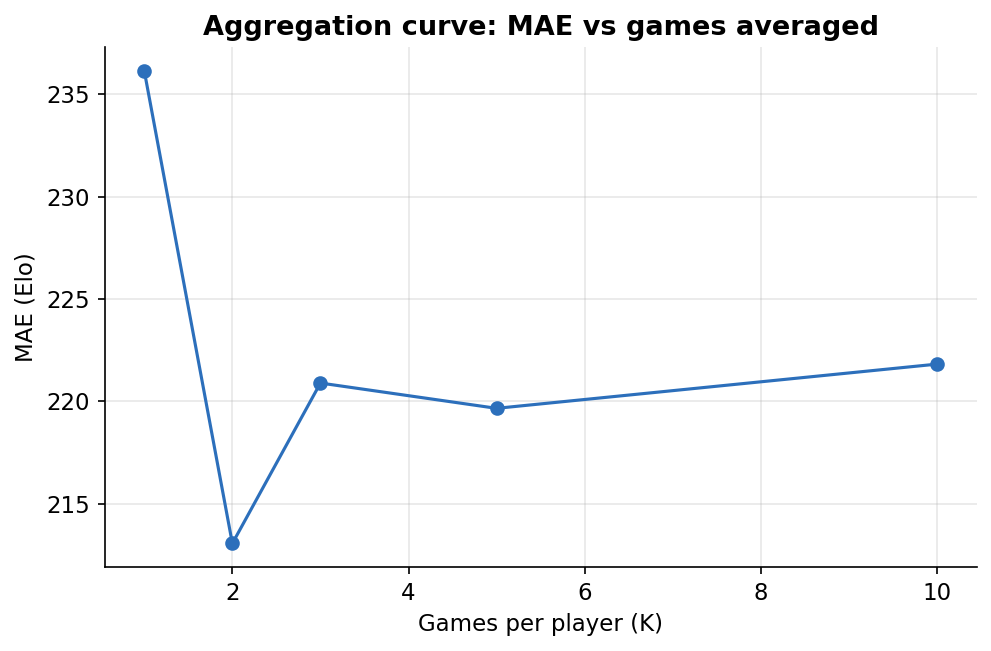
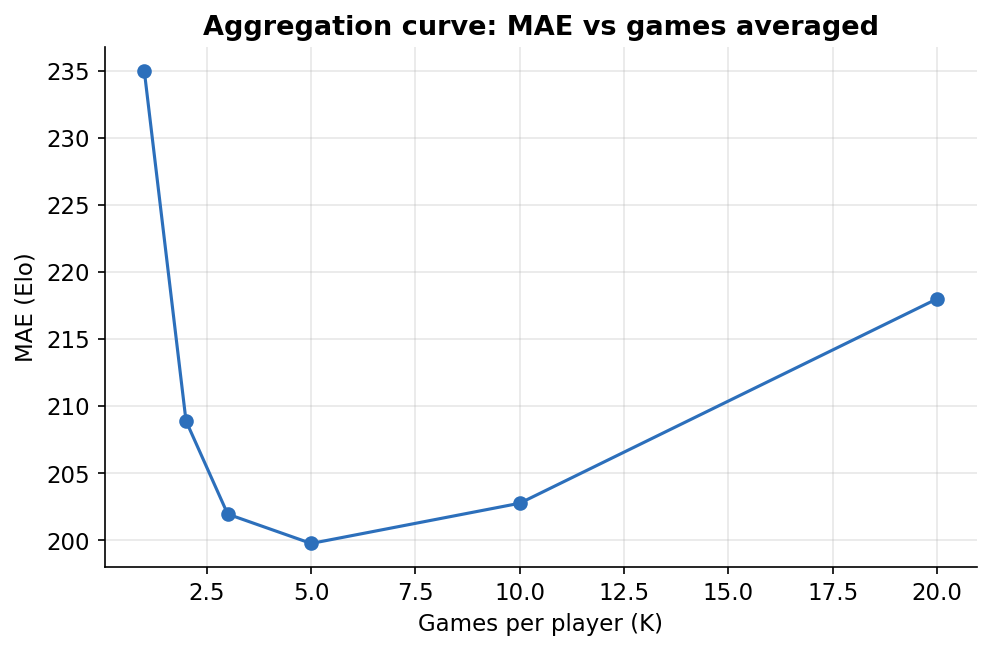
docs+exp: Phase 2 verification runs, CQR limitations rewrite, figures
results.md: encoding A/B block, 29k and 300k improved-model blocks
(300k: MAE 239.4, raw 87.5% -> CQR 89.8%, aggregation K1=235 -> K5=200),
tail study table. README/architecture document the NaN contract, CQR and
its marginal-vs-conditional caveat, and the player-cohort sample.

Claude-Session: https://claude.ai/code/session_013F37qEJ95hnSpxxxFzWgKX

diff --git a/README.md b/README.md
@@ -62,7 +62,8 @@ parallel against the interface (not by reading each other's code).
 
 **Stage 6 (`src/evaluate.py`)** trains the improved model on the full engine+clock features and reports
 the improvement table (no-engine baseline → +engine → tuned), the **90% prediction interval** from
-three quantile LightGBMs (empirical coverage + pinball loss), rating-band accuracy + confusion matrix,
+three quantile LightGBMs **conformalized via split CQR** on a dedicated grouped calibration split
+(raw and conformalized coverage + width, per-band coverage, pinball loss), rating-band accuracy + confusion matrix,
 the **aggregation curve** (MAE vs games-per-player — single-game noise vs precision by averaging),
 calibration, and **SHAP** importances. Stage 8 adds error analysis (largest residuals, residual by band
 & game length) and **feature-group ablations**. Everything is split by `username` (never by game).
@@ -133,7 +134,7 @@ split train/test by `username` (GroupKFold / grouped hold-out), never by game.
 ## `features.parquet` (Stage 4)
 
 `src/features.py` parses each game once and emits **one row per instance** (`game_id, color,
-username, rating, result, time_control, eco, opening` + ~60 numeric features). Built on the verified
+username, rating, result, time_control, eco, opening` + 66 numeric features). Built on the verified
 `win_percent`/`accuracy_percent`/`classify_move` primitives; every quality feature is computed
 overall **and** per phase (`opening_` / `middlegame_` / `endgame_`). Feature groups:
 
@@ -143,6 +144,15 @@ overall **and** per phase (`opening_` / `middlegame_` / `endgame_`). Feature gro
 - **Time:** `move_time_{mean,std,median}` from `[%clk]` deltas, `fast_move_share`, `time_trouble_share`.
 - **Style:** `game_plies`, `player_moves`, `n_captures`, `n_checks`, `reached_winning`,
   `converted_winning` (did they win from a winning position?).
+- **Presence flags:** `has_opening`, `has_middlegame`, `has_endgame`, `has_clock` (0/1).
+
+**Missing-value contract:** NaN means *not observable*, 0 is reserved for a true zero (exposure
+counts like `{phase}_n_moves`/`n_timed_moves`, or a genuinely computed zero). A phase with no
+moves gets `n_moves = 0` and NaN for **all** its other aggregates (including the error counts —
+a count is only meaningful conditional on exposure); `*_std` is NaN below 2 observations; all
+clock features are NaN when a game carries no `[%clk]`. LightGBM consumes NaN natively (learns a
+default split direction) — no sentinel values or imputation, and the flags make absence directly
+splittable. ~38% of instances have no endgame block, ~8% no middlegame.
 
 Same leakage guarantee: the eval before/after a move is taken from *this* player's POV only; no
 opponent-derived quantity enters a feature. Cross-game aggregates (opening-diversity entropy, the
@@ -195,8 +205,16 @@ must run top-to-bottom (Restart & Run All) before they're considered done.
   levers are **aggregation** (more games per player) and **better tail-discriminating features**.
 - **Aggregation-curve cohort:** a uniform *game* sample has few players with many games, so each K in
   the aggregation curve is a different, shrinking cohort (higher-K points are noisier and not
-  apples-to-apples). Backlog: a player-stratified sample (pick players, take all their games) would
-  give a cleaner, monotone curve.
-- **Interval calibration:** the raw 90% quantile interval under-covers (~85% empirically); backlog is
-  conformalized quantile regression (CQR) to recalibrate width for guaranteed marginal coverage.
+  apples-to-apples). `ingest.py` now also writes a **player-cohort sample**
+  (`player_cohort` in config: all games of a small hash-sampled player subset →
+  `data/processed/player_cohort.parquet`) so the curve can be computed on complete per-player
+  game sets once the large-sample run lands.
+- **Interval calibration — resolved by CQR, with a conditional-coverage caveat.** The raw 90%
+  quantile interval under-covers (~85%). We now apply split conformalized quantile regression
+  (CQR): a dedicated grouped **calibration split** (never seen by any fit; see `model.calib_size`)
+  supplies a finite-sample correction that widens/narrows the interval for guaranteed *marginal*
+  coverage (measured: raw 84.6% → CQR 90.8%). The guarantee is marginal only: per-band coverage
+  still dips at the extremes (~75% at 0–1200, ~82% at 2000+) because interval width barely adapts
+  across bands (see `reports/figures/interval_by_band.png`). Backlog: band-conditional (Mondrian)
+  CQR for per-band guarantees.
 - **Scope:** blitz only; results may not transfer to rapid/classical.

diff --git a/reports/results.md b/reports/results.md
@@ -44,3 +44,56 @@ n_train=37802, n_test=11753, n_features=65
 - band accuracy: 35.4% exact, 75.6% adjacent
 - aggregation MAE: K1=236, K2=213, K3=221, K5=220, K10=222
 - ablation (MAE↑ when dropped): engine +31.4, style +10.9, clock +8.1, opening +7.6
+
+## 2026-07-05 17:31 — improved model
+n_train=32033, n_calib=5769, n_test=11753, n_features=69
+
+| stage | MAE | RMSE |
+|---|---|---|
+| no-engine baseline | 290.2 | — |
+| + engine/clock | 243.2 | 306.2 |
+
+- median AE 204, R² 0.526, Spearman 0.715, within 100/200 Elo 26%/49%, bias +7.5
+- per-player (all games averaged): **229.3** MAE over 7298 players
+- 90% interval coverage: raw 84.6% -> CQR **90.8%** (width 950 -> 1098 Elo; correction lo=74.1, hi=74.1)
+- coverage by band: 0-1200 75%, 1200-1400 98%, 1400-1600 99%, 1600-1800 100%, 1800-2000 98%, 2000-3000 82%
+- band accuracy: 35.2% exact, 75.0% adjacent
+- aggregation MAE: K1=238, K2=217, K3=225, K5=226, K10=233
+- ablation (MAE↑ when dropped): engine +31.5, style +10.0, clock +7.6, opening +6.6
+
+## 2026-07-05 17:31 — tail study
+
+| variant | overall | tail | mid | 0-1200 | 1200-1400 | 1400-1600 | 1600-1800 | 1800-2000 | 2000-3000 |
+|---|---|---|---|---|---|---|---|---|---|
+| plain | 243.2 | 319 | 194 | 352 | 209 | 182 | 177 | 207 | 287 |
+| reweighted(s=0.5) | 244.2 | 326 | 191 | 348 | 201 | 175 | 175 | 211 | 303 |
+| deshrink(slope=1.06) | 243.2 | 309 | 201 | 345 | 214 | 192 | 185 | 212 | 274 |
+
+## 2026-07-05 — missing-value encoding A/B (same grouped splits, untuned)
+Old encoding (65 feats: absent-phase counts=0, stds=0 at n=1, time_trouble_share=0 with no clock)
+vs new unified NaN contract + has_* flags (69 feats). Identical usernames/seed => identical splits.
+
+| encoding | MAE | RMSE | R2 | raw coverage | CQR coverage |
+|---|---|---|---|---|---|
+| old (mixed 0/NaN) | 242.7 | 305.6 | 0.528 | 84.7% | 90.8% |
+| new (NaN contract + flags) | 243.2 | 306.2 | 0.526 | 84.6% | 90.8% |
+
+Verdict: performance-neutral (dMAE +0.5, within split noise) - adopted for correctness:
+"no endgame existed" is no longer encoded as "0 endgame errors", and absence is explicitly
+splittable via has_middlegame/has_endgame/has_clock. CQR coverage is robust to either encoding.
+
+## 2026-07-05 21:43 — improved model
+n_train=329353, n_calib=59124, n_test=120513, n_features=69
+
+| stage | MAE | RMSE |
+|---|---|---|
+| no-engine baseline | 293.4 | — |
+| + engine/clock | 239.4 | 300.4 |
+
+- median AE 202, R² 0.544, Spearman 0.726, within 100/200 Elo 26%/50%, bias -3.3
+- per-player (all games averaged): **218.4** MAE over 50357 players
+- 90% interval coverage: raw 87.5% -> CQR **89.8%** (width 945 -> 998 Elo; correction lo=26.6, hi=26.6)
+- coverage by band: 0-1200 78%, 1200-1400 95%, 1400-1600 98%, 1600-1800 99%, 1800-2000 95%, 2000-3000 80%
+- band accuracy: 36.5% exact, 75.9% adjacent
+- aggregation MAE: K1=235, K2=209, K3=202, K5=200, K10=203, K20=218
+- ablation (MAE↑ when dropped): engine +33.8, clock +9.8, style +8.1, opening +8.0

diff --git a/PROJECT_ARCHITECTURE.md b/PROJECT_ARCHITECTURE.md
@@ -161,7 +161,9 @@ strong, to justify excluding it).
 **Stage 6 — Improved model (`src/model.py`).** Add the engine/clock features. Tune
 LightGBM (Optuna, early stopping on a validation fold). Then train **quantile regressors**
 (LightGBM `objective=quantile`, alpha = 0.05 / 0.5 / 0.95) to produce a **median + 90%
-interval per prediction** — the "1500 ± X" with X earned per game. Derive rating bands by
+interval per prediction** — the "1500 ± X" with X earned per game. The raw interval is
+**conformalized (split CQR)** on a dedicated grouped calibration split (never seen by any
+fit) so the 90% marginal coverage is guaranteed, not hoped for. Derive rating bands by
 bucketing the median for the confusion matrix.
 
 **Stage 7 — Evaluation (`src/evaluate.py`).**
